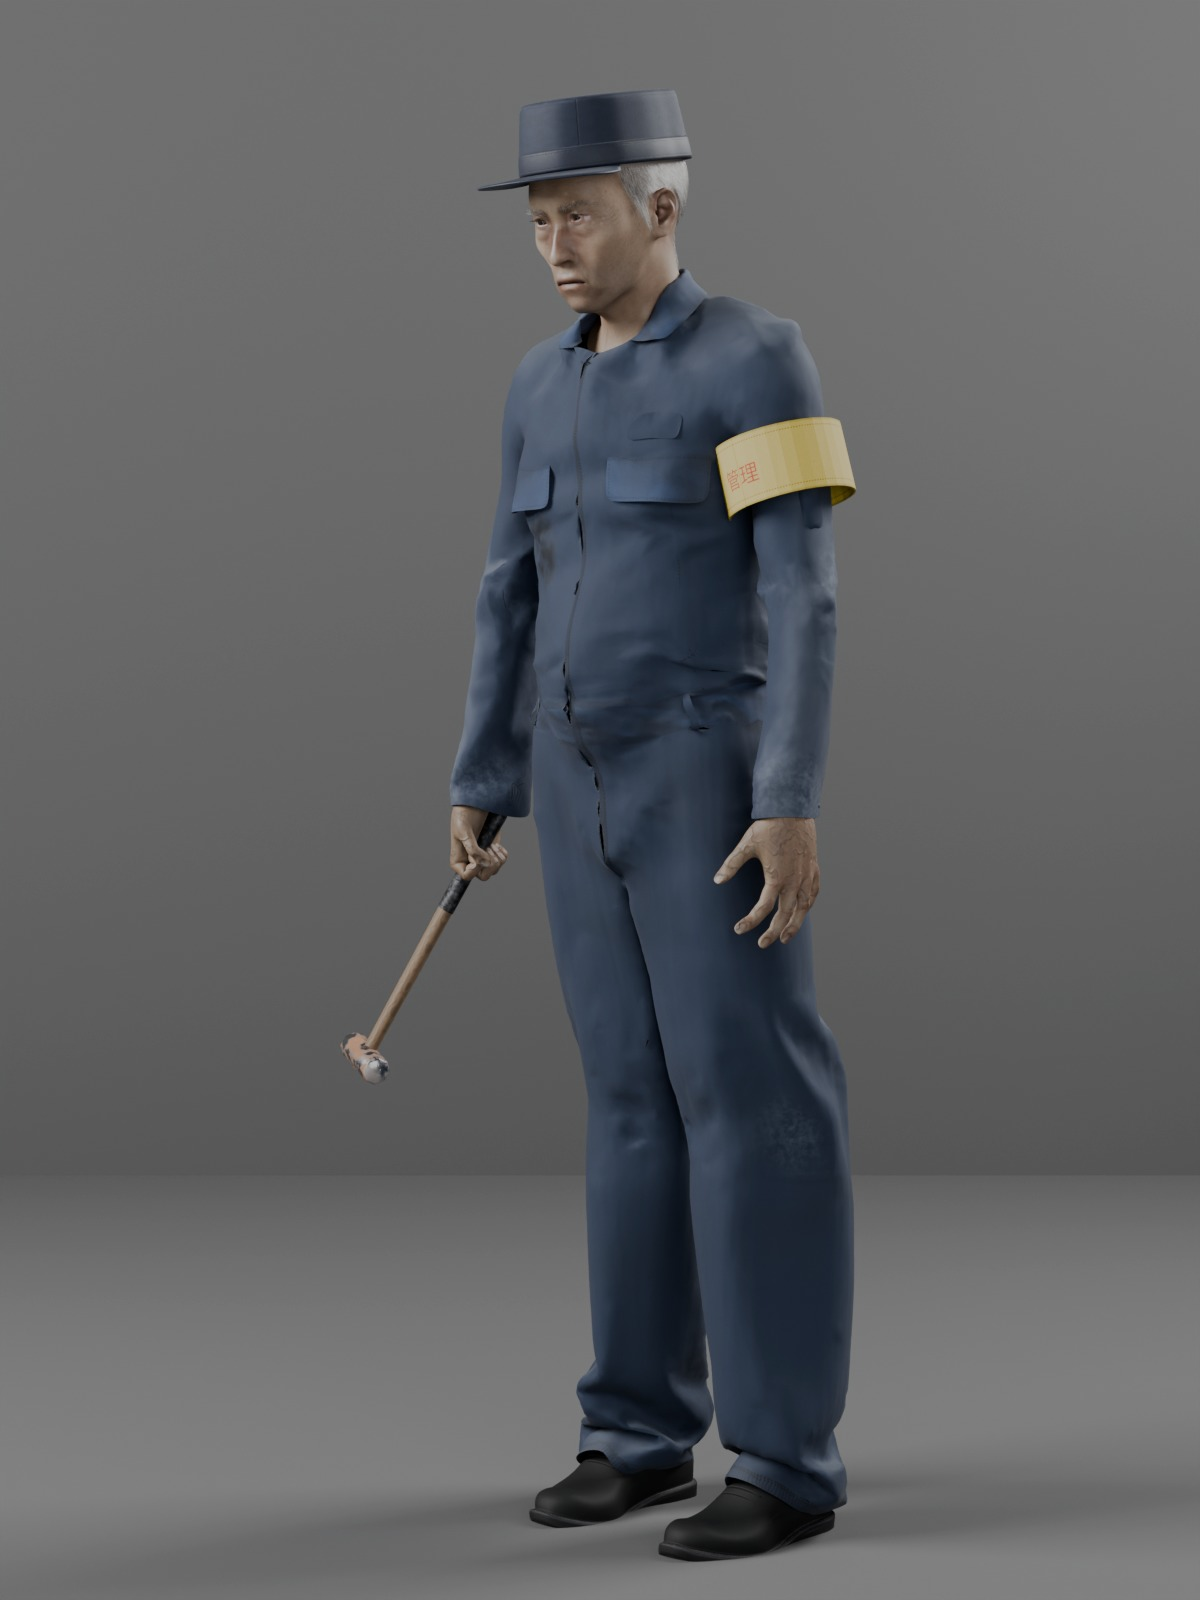
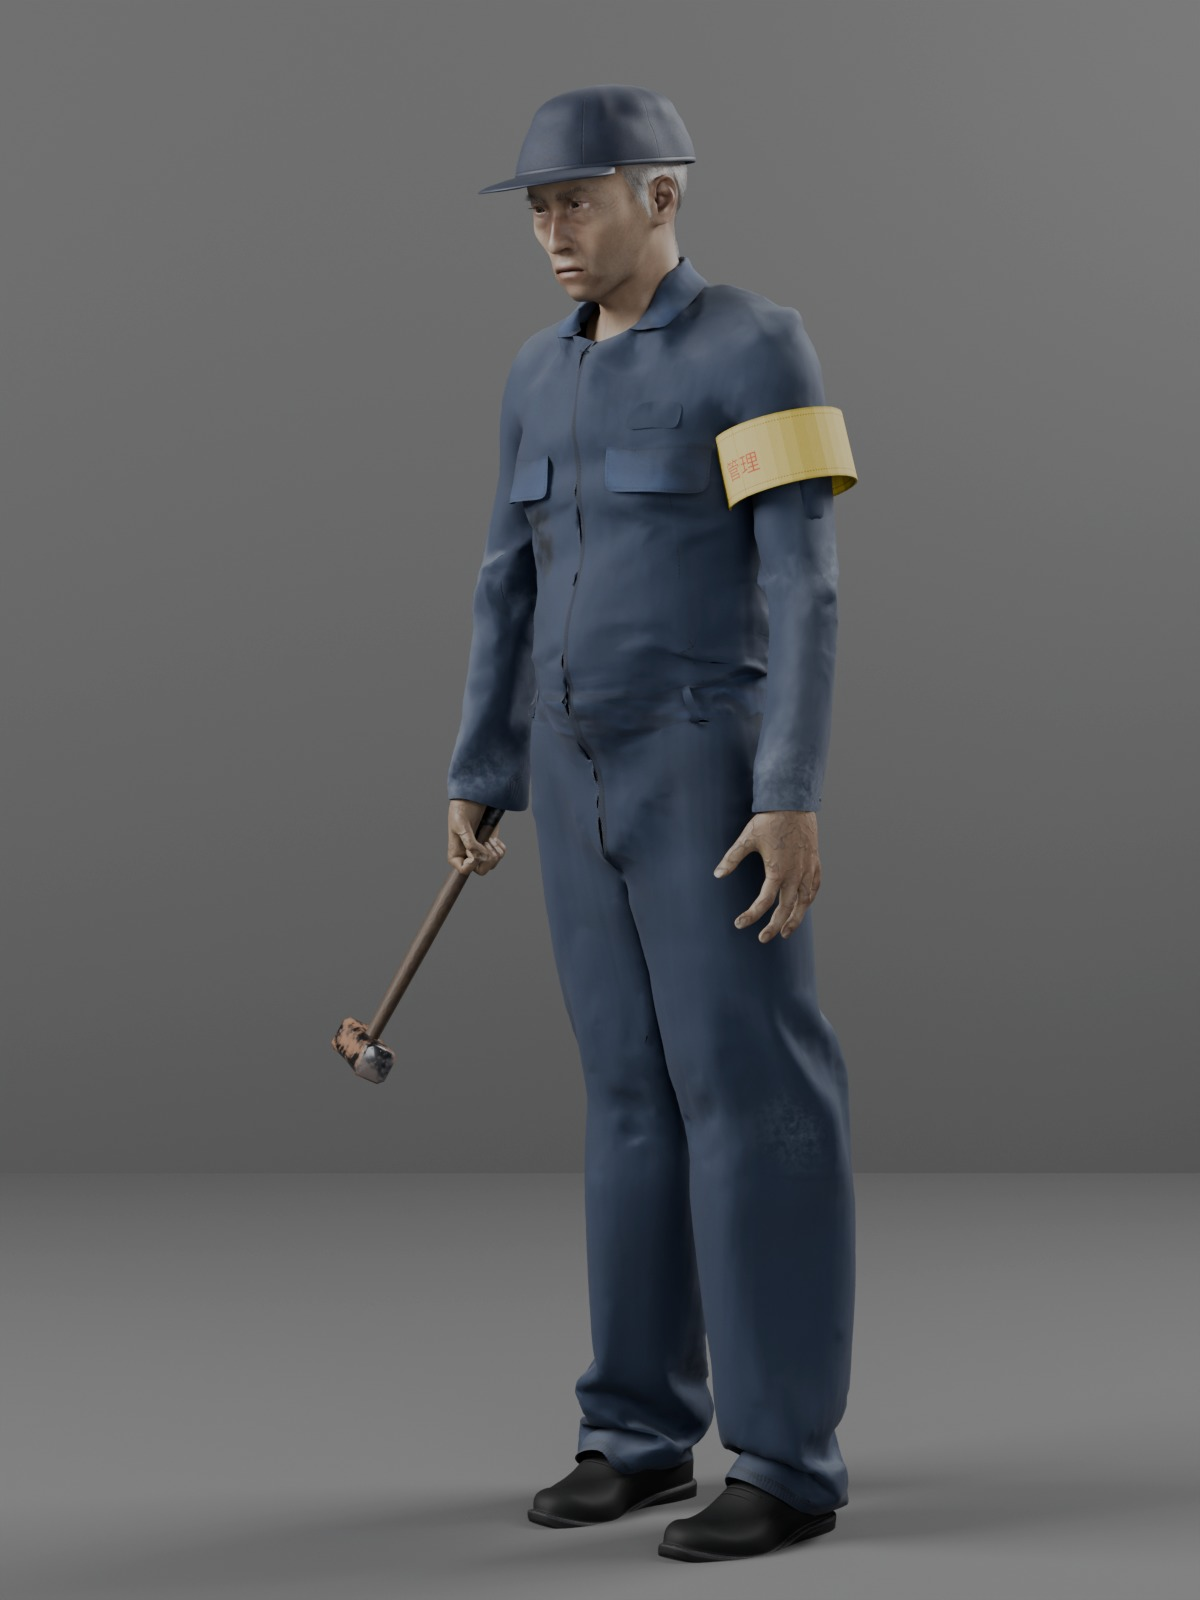
P1b: 帽子ドーム化とハンマー頭の増量
- 帽子: 頭蓋に沿ったドーム型クラウン(6 枚はぎ・天井は頭頂＋8mm)、前だけの湾曲したつば(出 6.5cm)、同色の細いステッチ帯
- ハンマー: 頭を 10.5cm×4.5×4.5cm の面取り四角の鉄塊に(打面が広がる)、柄の中間を太く、焦げ茶の柄・黒皮＋錆の頭
- enemy_check.py: 帽子の判定を「天井−頭頂 ≤10mm」に変更 → 20/20

diff --git a/tools/blender/enemy_p1b.py b/tools/blender/enemy_p1b.py
@@ -892,8 +892,9 @@ def cap_texture(size=1024):
         return np.clip(1 - np.abs(coord - c) / w, 0, 1)
     # クラウン側面 v∈[0,0.36]: 上端と下端に 1 本ずつ、前の縦の縫い目 2 本
     side = (yy < 0.36)
-    stitch += side * stitch_row(line(yy, 0.012, 0.0016) + line(yy, 0.345, 0.0016), xx * 260)
-    stitch += side * stitch_row(line(xx, 0.42, 0.0013) + line(xx, 0.58, 0.0013), yy * 260)
+    stitch += side * stitch_row(line(yy, 0.010, 0.0016), xx * 260)
+    for k6 in range(6):    # 6 枚はぎの縫い目(頂点で集まる)
+        stitch += side * stitch_row(line(xx, (k6 + 0.5) / 6, 0.0013), yy * 260)
     # 天井 [0,0.5]x[0.5,1]: 縁から少し内側に円のステッチ
     cx, cy = 0.25, 0.75
     rr = np.hypot(xx - cx, yy - cy)
@@ -912,7 +913,7 @@ def cap_texture(size=1024):
     navy = np.array([0.105, 0.125, 0.215], np.float32)   # sRGB(つなぎの紺に合わせる)
     col = navy[None, None, :] * (0.94 + 0.08 * twill[..., None] + 0.05 * fiber[..., None])
     col = col * (1 - 0.35 * stitch[..., None])                          # 糸の溝は暗く
-    col[band] = (col[band] * 0.90)                                     # 下の帯(側面の下半分)は同じ紺でわずかに濃い
+    # 縁の帯は同じ紺(色を変えない)
     # 使い込み: クラウン上端の縁・つばの先が擦れて色が抜け、全体に薄いくすみ
     edge_wear = np.zeros_like(xx)
     edge_wear += side * np.clip(1 - np.abs(yy - 0.355) / 0.012, 0, 1)
@@ -947,21 +948,15 @@ def cap_texture(size=1024):
             mk(f'{CID}_cap_rough', np.repeat(rough[..., None], 3, -1), True))
 
 
-CAP_BAND = 0.030          # 下の帯(側面の下 3cm。外側はステッチで区切ったトリム、内側は汗止め)の高さ
-CAP_CROWN_MAX = 0.054     # 帯の上端〜天井(機械チェックは ≤60mm)
+CAP_BAND = 0.006          # 縁: 同色の細いステッチ帯(高さ 6mm、ほぼ面一)
+CAP_TOP_GAP = 0.0055      # 頭頂から天井(外面)までのすき間(機械チェックは ≤10mm)
 
 
 def make_cap(body, rig, F):
-    """P1 の 04(ワークキャップ)型: クラウンは頭に沿って低く、天井は平たく、前立ては張り、つばは前へ。
-    帯の上端〜天井が CAP_CROWN_MAX を超えないよう、縁の位置を自動で上げる。"""
-    fo, bo = 0.048, 0.022
-    for _ in range(6):
-        nrm, dpl, hv, Fp, Bp = cap_plane_from_head(body, F, fo, bo)
-        h = hv @ nrm - dpl
-        crown = float(h.max()) + 0.0065 - CAP_BAND
-        if crown <= CAP_CROWN_MAX:
-            break
-        fo += crown - CAP_CROWN_MAX + 0.001; bo += crown - CAP_CROWN_MAX + 0.001
+    """P1 の 04 の帽子: 頭蓋に沿ったドーム型クラウン(6 枚はぎ)＋前だけの湾曲したつば。
+    天井は平らにしない・側面も垂直にしない(=頭の包絡そのもの＋ゆとり)。縁は額の眉上 4cm。"""
+    nrm, dpl, hv, Fp, Bp = cap_plane_from_head(body, F, 0.040, 0.008)
+    h = hv @ nrm - dpl
     up = Vector(nrm)
     fwd = Vector((0, -1, 0)); fwd = (fwd - up * fwd.dot(up)).normalized()
     side = fwd.cross(up).normalized()
@@ -975,10 +970,12 @@ def make_cap(body, rig, F):
     rad_v = np.hypot(lx, ly)
     NA = 64
     azs = np.linspace(-np.pi, np.pi, NA, endpoint=False)
-    top = float(lz.max()) + 0.0065
-    NR = 9
-    hs = np.linspace(0.0, top, NR)
-    # 各高さ・方位の頭の半径(その高さ以上の最大 = 下から被せられる包絡)
+    head_top = float(lz.max())
+    top = head_top + CAP_TOP_GAP
+    NR = 12
+    # 高さは上ほど細かく(ドームの丸みを出す)
+    hs = np.sin(np.linspace(0, np.pi / 2, NR + 1)[:-1]) * top     # 最上段は頭頂の手前(最後は中心の 1 点で閉じる)
+    # 各高さ・方位の頭の半径(その高さ以上の最大)＋ゆとり = 頭蓋に密着するドーム
     R = np.zeros((NR, NA))
     for j, hh in enumerate(hs):
         selh = lz >= hh - 0.004
@@ -988,16 +985,18 @@ def make_cap(body, rig, F):
             R[j, i] = rad_v[sel].max() if sel.any() else 0.0
     for j in range(NR - 2, -1, -1):
         R[j] = np.maximum(R[j], R[j + 1])
-    for _ in range(3):
+    for _ in range(4):
         R = np.maximum(R, (np.roll(R, 1, 1) + np.roll(R, -1, 1) + 2 * R) / 4)
-    R += 0.007
+    R += 0.0075
+    # 上部は楕円のドームで滑らかに閉じる(頭の包絡より内側には入れない=密着しつつ尖り・ねじれを出さない)
+    j0 = int(NR * 0.45)
+    h0 = hs[j0]
+    for j in range(j0 + 1, NR):
+        t = (hs[j] - h0) / max(top - h0, 1e-6)
+        R[j] = np.maximum(R[j0] * np.sqrt(max(1 - t * t, 0.0)), R[j])
+    for _ in range(2):
+        R[j0:] = np.maximum(R[j0:], (np.roll(R[j0:], 1, 1) + np.roll(R[j0:], -1, 1) + 2 * R[j0:]) / 4)
     r_side = R[0].copy()
-    # 天井を平たく広めに(パトロールキャップの張り)、前立ては少し起こす
-    front = np.clip(1 - np.abs(azs) / np.radians(45), 0, 1)
-    for j in range(NR):
-        t = j / (NR - 1)
-        R[j] = np.maximum(R[j], r_side * (0.90 + 0.10 * (1 - t)))       # 側面はほぼ垂直、天井は広く平ら
-        R[j] += front * 0.003 * np.sin(np.pi * t)
     verts, faces, uvs, mats = [], [], [], []
     def P(a_idx, r, hh):
         a = azs[a_idx % NA]
@@ -1015,41 +1014,23 @@ def make_cap(body, rig, F):
             u0, u1 = i / NA, (i + 1) / NA
             v0, v1 = 0.36 * j / (NR - 1), 0.36 * (j + 1) / (NR - 1)
             uvs.append([(u0, v0), (u1, v0), (u1, v1), (u0, v1)])
-    # 天井: 平らな面(縁はわずかに丸める)
-    rings = [rows[-1]]
-    for fr, dz in ((0.93, 0.0022), (0.6, 0.0030), (0.25, 0.0032)):
-        rings.append([len(verts) + i for i in range(NA)])
-        for i in range(NA):
-            verts.append(P(i, R[-1, i] * fr, top + dz))
-    cidx = len(verts); verts.append(Vector(cen) + up * (top + 0.003))
-    def top_uv(v):
-        q = v - Vector(cen)
-        rmax = R[-1].max() * 1.02
-        return (0.25 + 0.24 * q.dot(side) / rmax, 0.75 + 0.24 * q.dot(fwd) / rmax)
-    for k in range(len(rings) - 1):
-        for i in range(NA):
-            a, b = rings[k][i], rings[k][(i + 1) % NA]
-            c, d = rings[k + 1][(i + 1) % NA], rings[k + 1][i]
-            faces.append((a, b, c, d)); mats.append(0)
-            uvs.append([top_uv(verts[x]) for x in (a, b, cidx if False else c, d)])
+    cidx = len(verts); verts.append(Vector(cen) + up * top)
     for i in range(NA):
-        a, b = rings[-1][i], rings[-1][(i + 1) % NA]
+        a, b = rows[-1][i], rows[-1][(i + 1) % NA]
         faces.append((a, b, cidx)); mats.append(0)
-        uvs.append([top_uv(verts[x]) for x in (a, b, cidx)])
-    # 縁の帯(高さ 18mm、1.5mm 浮かす)
-    j1 = 1
+        uvs.append([(i / NA, 0.36), ((i + 1) / NA, 0.36), ((i + 0.5) / NA, 0.36)])
+    # 縁: 同色の細いステッチ帯(6mm、0.6mm だけ浮かす)
     b0 = [len(verts) + i for i in range(NA)]
     for i in range(NA):
-        verts.append(P(i, R[0, i] + 0.0015, -0.001))
+        verts.append(P(i, R[0, i] + 0.0006, -0.001))
     b1 = [len(verts) + i for i in range(NA)]
     for i in range(NA):
-        rb = np.interp(CAP_BAND, hs, R[:, i]) + 0.0015
-        verts.append(P(i, rb, CAP_BAND))
+        verts.append(P(i, np.interp(CAP_BAND, hs, R[:, i]) + 0.0006, CAP_BAND))
     for i in range(NA):
         faces.append((b0[i], b0[(i + 1) % NA], b1[(i + 1) % NA], b1[i])); mats.append(1)
         uvs.append([(i / NA, 0.37), ((i + 1) / NA, 0.37), ((i + 1) / NA, 0.45), (i / NA, 0.45)])
-    # つば: 前 ±55°、長さ 7cm、ほぼ水平(下向き 4°)＋ 左右にわずかな反り(ワークキャップのつば)
-    BA = np.radians(55)
+    # つば: 前だけ ±50°、幅(出) 6.5cm。横から見て弧(先へ行くほど下がる)＋ 左右の端も下がる
+    BA = np.radians(50)
     NB, NS = 33, 6
     brim_rows = []
     for si in range(NS):
@@ -1057,13 +1038,13 @@ def make_cap(body, rig, F):
         row = []
         for bi in range(NB):
             a = -BA + 2 * BA * bi / (NB - 1)
-            L = 0.070 * max(0.0, math.cos(a / BA * math.pi / 2)) ** 0.7
+            L = 0.065 * max(0.0, math.cos(a / BA * math.pi / 2)) ** 0.7
             i_f = (a + np.pi) / (2 * np.pi) * NA
             r0 = np.interp(i_f, np.arange(NA + 1), np.append(r_side, r_side[0])) - 0.002 + 0.0042 * min(1.0, s_ * 4)
             base = Vector(cen) + side * (math.sin(a) * r0) + fwd * (math.cos(a) * r0)
             out = (side * math.sin(a) + fwd * math.cos(a)).normalized()
             dist = L * s_
-            p = base + up * (0.002 * (1 - min(1.0, s_ * 4))) + out * dist - up * (math.tan(math.radians(4)) * dist + 0.007 * (a / BA) ** 2 * s_)
+            p = base + up * (0.002 * (1 - min(1.0, s_ * 4))) + out * dist - up * (math.tan(math.radians(3)) * dist + 2.6 * dist * dist + 0.010 * (a / BA) ** 2 * s_)
             row.append(len(verts)); verts.append(p)
         brim_rows.append(row)
     for si in range(NS - 1):
@@ -1119,10 +1100,10 @@ def make_cap(body, rig, F):
         vg = o.vertex_groups.new(name='head'); vg.add(list(range(len(o.data.vertices))), 1.0, 'REPLACE')
         md = o.modifiers.new('Armature', 'ARMATURE'); md.object = rig
         sd = o.modifiers.new('Subdivision', 'SUBSURF'); sd.levels = 0; sd.render_levels = 1
-    obj['n2_cap_band'] = CAP_BAND
     obj['n2_cap_up'] = [float(v) for v in up]; obj['n2_cap_d'] = float(dpl)
-    LOG(f'cap: work-cap r={r_side.min():.3f}..{r_side.max():.3f} crown(帯上端〜天井)={(top + 0.003 - CAP_BAND) * 1000:.0f}mm '
-        f'edge front=eye+{fo * 1000:.0f}mm faces={len(me.polygons)}')
+    obj['n2_cap_head_top'] = head_top
+    LOG(f'cap: dome r={r_side.min():.3f}..{r_side.max():.3f} 縁〜天井={top * 1000:.0f}mm '
+        f'(頭頂+{(top - head_top) * 1000:.1f}mm) faces={len(me.polygons)}')
     return obj, None, (np.array(up), float(dpl))
 
 
@@ -1484,10 +1465,10 @@ def make_hammer():
     bm = bmesh.new()
     part = bm.verts.layers.float.new('n2_part')       # 0=木, 1=鉄, 2=テープ
     SEG = 16
-    head_y = HAM_TOTAL - 0.019                        # 頭の中心(柄尻基準)
+    head_y = HAM_TOTAL - 0.0245                       # 頭の中心(柄尻基準)。頭の上端が全長 40cm
     # 柄: 楕円断面、柄尻はふくらむ、頭の手前で細る
-    prof = [(0.000, 0.0145, 0.0105), (0.006, 0.0160, 0.0118), (0.018, 0.0150, 0.0110), (0.060, 0.0138, 0.0102),
-            (0.140, 0.0132, 0.0098), (0.220, 0.0124, 0.0092), (0.300, 0.0116, 0.0087), (head_y - 0.02, 0.0110, 0.0083),
+    prof = [(0.000, 0.0150, 0.0110), (0.006, 0.0165, 0.0122), (0.018, 0.0155, 0.0114), (0.060, 0.0150, 0.0110),
+            (0.140, 0.0156, 0.0114), (0.220, 0.0150, 0.0110), (0.300, 0.0132, 0.0098), (head_y - 0.02, 0.0120, 0.0090),
             (HAM_TOTAL - 0.001, 0.0108, 0.0082)]
     rings = [_ring(bm, y, rx, rz, SEG) for y, rx, rz in prof]
     for r0, r1 in zip(rings[:-1], rings[1:]):
@@ -1502,19 +1483,20 @@ def make_hammer():
     tv = set(v for r in trings for v in r)
     for r0, r1 in zip(trings[:-1], trings[1:]):
         _bridge(bm, r0, r1)
-    # 頭: 八角柱(X 方向に長さ 10.5cm、幅 3.4cm)。両端は面取りした打撃面
-    OCT = 8; hw = 0.0175
-    def oct_ring(x, s):
-        return [bm.verts.new((x, head_y + hw * s * math.cos(2 * math.pi * (i + 0.5) / OCT) / math.cos(math.pi / OCT),
-                              hw * s * math.sin(2 * math.pi * (i + 0.5) / OCT) / math.cos(math.pi / OCT))) for i in range(OCT)]
+    # 頭: 角材のような太い鉄塊(X 方向に長さ 10.5cm、断面 4.5×4.5cm の面取り四角)。両端の打面は少し広がる
+    hw = 0.0225; ch = 0.30                            # 半幅・面取り率
+    def sq_ring(x, s):
+        pts = [(1, 1 - ch), (1 - ch, 1), (-(1 - ch), 1), (-1, 1 - ch), (-1, -(1 - ch)), (-(1 - ch), -1), (1 - ch, -1), (1, -(1 - ch))]
+        return [bm.verts.new((x, head_y + hw * s * py, hw * s * pz)) for py, pz in pts]
     L2 = HAM_HEAD_LEN / 2
-    hr = [oct_ring(-L2, 0.86), oct_ring(-L2 + 0.004, 1.0), oct_ring(-0.012, 0.97), oct_ring(0.012, 0.97),
-          oct_ring(L2 - 0.004, 1.0), oct_ring(L2, 0.86)]
+    hr = [sq_ring(-L2, 0.90), sq_ring(-L2 + 0.004, 1.06), sq_ring(-L2 + 0.014, 1.0), sq_ring(-0.010, 0.97),
+          sq_ring(0.010, 0.97), sq_ring(L2 - 0.014, 1.0), sq_ring(L2 - 0.004, 1.06), sq_ring(L2, 0.90)]
+    OCT = 8
     hv = set(v for r in hr for v in r)
     for r0, r1 in zip(hr[:-1], hr[1:]):
         _bridge(bm, r0, r1)
     for r, flip in ((hr[0], True), (hr[-1], False)):
-        c = bm.verts.new((r[0].co.x * 1.0 + (-0.0015 if flip else 0.0015), head_y, 0))   # 打撃面はわずかに膨らむ
+        c = bm.verts.new((r[0].co.x + (-0.0015 if flip else 0.0015), head_y, 0))   # 打面はわずかに膨らむ
         hv.add(c)
         for i in range(OCT):
             bm.faces.new((r[(i + 1) % OCT], r[i], c) if flip else (r[i], r[(i + 1) % OCT], c))
@@ -1542,16 +1524,16 @@ def make_hammer():
     grain = n.new('ShaderNodeTexWave', wave_type='BANDS', bands_direction='X')
     n.link(oc, grain.inputs['Vector']); grain.inputs['Scale'].default_value = 60.0; grain.inputs['Distortion'].default_value = 9.0
     grain.inputs['Detail'].default_value = 3.0
-    wcol = n.mix((0.19, 0.12, 0.065, 1), (0.11, 0.07, 0.04, 1), n.math('MULTIPLY', grain.outputs['Fac'], 0.8))   # 使い込んで黒ずんだ木
+    wcol = n.mix((0.065, 0.038, 0.020, 1), (0.035, 0.021, 0.012, 1), n.math('MULTIPLY', grain.outputs['Fac'], 0.8))   # 暗い焦げ茶(使い込んだ木)
     wcol = n.mix(wcol, (0.12, 0.09, 0.06, 1), n.math('MULTIPLY', n.ramp(n.noise(oc, 25.0, 3.0), 0.5, 0.8), 0.5))
     # 鉄: 暗い地金に錆(縁と面取りに寄る)・打撃面は擦れて明るい
     rust_n = n.ramp(n.noise(oc, 45.0, 4.0, 0.6), 0.42, 0.62)
     rust_b = n.ramp(n.voronoi(oc, 90.0, 1.0), 0.35, 0.15)
     rust = n.math('MAXIMUM', rust_n, n.math('MULTIPLY', rust_b, 0.6), clamp=True)
-    scol = n.mix((0.20, 0.20, 0.21, 1), n.mix((0.38, 0.18, 0.08, 1), (0.22, 0.10, 0.05, 1), n.noise(oc, 120.0)), rust)
+    scol = n.mix((0.045, 0.045, 0.048, 1), n.mix((0.42, 0.19, 0.07, 1), (0.25, 0.10, 0.04, 1), n.noise(oc, 120.0)), n.math('MULTIPLY', rust, 0.55))   # 黒皮の鉄＋錆
     sep = n.new('ShaderNodeSeparateXYZ'); n.link(oc, sep.inputs['Vector'])
-    face = n.ramp(n.math('ABSOLUTE', sep.outputs['X']), L2 - 0.004, L2 - 0.0005)
-    scol = n.mix(scol, (0.45, 0.45, 0.46, 1), n.math('MULTIPLY', face, 0.7))
+    face = n.ramp(n.math('ABSOLUTE', sep.outputs['X']), L2 - 0.0035, L2 - 0.0005)
+    scol = n.mix(scol, (0.26, 0.26, 0.27, 1), n.math('MULTIPLY', face, 0.6))
     # テープ: 黒、巻きの段(らせん)、端が少しめくれ汚れる
     tcol = n.mix((0.025, 0.025, 0.028, 1), (0.06, 0.06, 0.065, 1), n.ramp(n.noise(oc, 200.0), 0.4, 0.7))
     col = n.mix(n.mix(wcol, scol, steel), tcol, tape)

diff --git a/tools/blender/enemy_check.py b/tools/blender/enemy_check.py
@@ -10,7 +10,7 @@
 #  6) 眼球: 虹彩テクスチャ(彩度のある画素)の平均が灰白でない(暗く・色がある)
 #  7) 帽子: つばの下端が目の中心より上(正面の目線)。さらに正面(3.2m/目の高さ)と覗き穴(0.6m/1.50m)から
 #     目の中心へのレイが帽子に遮られない
-#  8) 帽子のクラウンの高さ(下の帯の上端〜天井)≤ 60mm
+#  8) 帽子のクラウン: 天井(外面)が頭頂 +10mm 以内(=頭に密着したドーム)
 #  9) ハンマー: 三角形 ≤3k・全長 0.38〜0.42m・テクスチャ ≤2048・原点=握り・hammer.fbx/.glb が読み直せる
 # 10) FBX の体に形状キー grin があり、値 1 で口まわりが ≥8mm 動く
 
@@ -141,12 +141,14 @@ for label, dist, hgt in (('正面3.2m', 3.2, eye_z), ('廊下の目線1.62m', 3.
             blocked.append(label)
 rec('目へのレイが帽子に遮られない', not blocked, blocked or 'なし', 'なし')
 
-# 8) 帽子のクラウンの高さ(下の帯の上端〜天井、レスト)
+# 8) 帽子のクラウン: 頭に密着したドーム = 天井(外面)が頭頂(縁の平面から測る)の +10mm 以内
 rig.data.pose_position = 'REST'; bpy.context.view_layer.update(); dg = bpy.context.evaluated_depsgraph_get()
-upv = np.array(cap['n2_cap_up']); dpl = cap['n2_cap_d']; band = cap['n2_cap_band']
+upv = np.array(cap['n2_cap_up']); dpl = cap['n2_cap_d']
 crco, _, _, _ = eval_world(cap)
 hmax = max(float(np.dot(np.array(p), upv)) - dpl for p in crco)
-rec('帽子クラウンの高さ(帯上端〜天井, mm)', hmax - band <= 0.060, round((hmax - band) * 1000, 1), '≤60')
+gap = hmax - float(cap['n2_cap_head_top'])
+rec('帽子の天井 − 頭頂(mm, 縁の平面から)', 0.0 < gap <= 0.010, round(gap * 1000, 1), '0〜10')
+rec('帽子の縁〜天井(mm, 参考)', True, round(hmax * 1000, 1), '—')
 rig.data.pose_position = 'POSE'; bpy.context.view_layer.update(); dg = bpy.context.evaluated_depsgraph_get()
 
 # 9) ハンマー(別ファイル)
